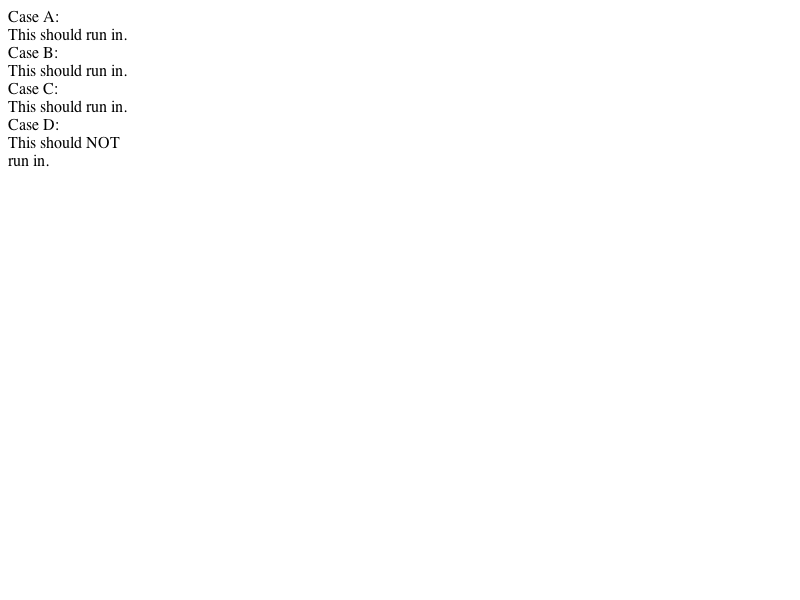
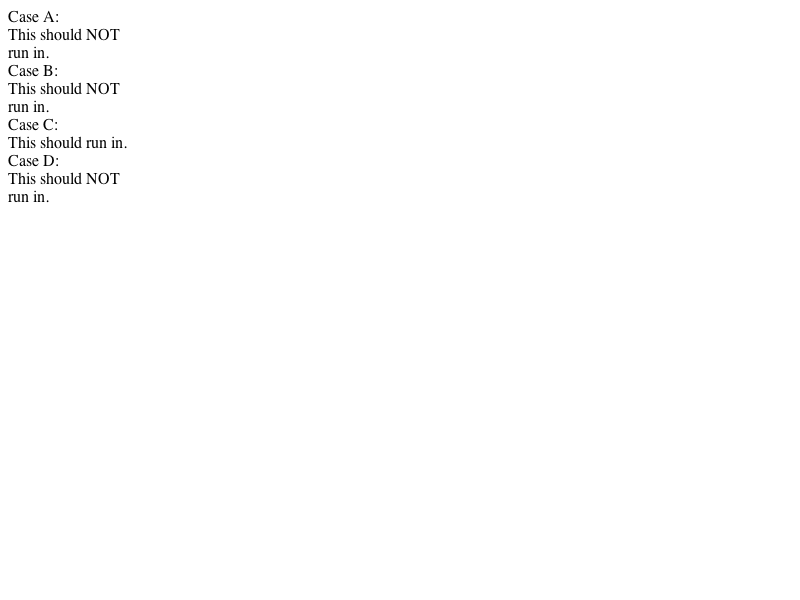
WebCore:
2009-07-15  David Hyatt  <hyatt@apple.com>

        Reviewed by Adam Roben.

        https://bugs.webkit.org/show_bug.cgi?id=27193
        Don't run in to anonymous blocks.  No other browsers do this, and our implementation of run-in
        is effectively broken as a result.

        No new tests. Changed fast/runin/001.html and fast/runin/generated.html to match new behavior.

        * rendering/RenderBlock.cpp:
        (WebCore::RenderBlock::handleRunInChild):

LayoutTests:

2009-07-15  David Hyatt  <hyatt@apple.com>

        Reviewed by Adam Roben.

        https://bugs.webkit.org/show_bug.cgi?id=27193
        Don't let run-ins run in to anonymous blocks.

        * fast/runin/001.html:
        * fast/runin/generated.html:
        * platform/mac/fast/runin/001-expected.checksum:
        * platform/mac/fast/runin/001-expected.png:
        * platform/mac/fast/runin/001-expected.txt:
        * platform/mac/fast/runin/generated-expected.checksum:
        * platform/mac/fast/runin/generated-expected.png:
        * platform/mac/fast/runin/generated-expected.txt:

Identifier: 37571@main
git-svn-id: https://svn.webkit.org/repository/webkit/trunk@45941 268f45cc-cd09-0410-ab3c-d52691b4dbfc

Changed region(s): [[0.0, 0.03, 0.1562, 0.33]]

diff --git a/LayoutTests/fast/runin/001.html b/LayoutTests/fast/runin/001.html
@@ -16,14 +16,14 @@
 Case A:
 
 <div class="block">
-    <div class="runin">This should </div>
+    <div class="runin">This should NOT</div>
     <div class="inline">run in.</div>
 </div>
 
 Case B:
 
 <div class="block">
-    <div class="runin">This should </div>
+    <div class="runin">This should NOT</div>
     run in.
 </div>
 

diff --git a/LayoutTests/fast/runin/generated.html b/LayoutTests/fast/runin/generated.html
@@ -9,5 +9,5 @@
     Generated content with display: run-in causes a crash</i>.
 </p>
 <div id="target">
-    &lt; this should say &ldquo;PASS&rdquo;
+   <div> &lt; this should say &ldquo;PASS&rdquo;</div>
 </div>

diff --git a/WebCore/rendering/RenderBlock.cpp b/WebCore/rendering/RenderBlock.cpp
@@ -1013,13 +1013,13 @@ bool RenderBlock::handleRunInChild(RenderBox* child)
     if (!child->isRunIn() || !child->childrenInline() && !child->isReplaced())
         return false;
 
-    RenderBlock* blockRunIn = toRenderBlock(child);
     // Get the next non-positioned/non-floating RenderBlock.
+    RenderBlock* blockRunIn = toRenderBlock(child);
     RenderObject* curr = blockRunIn->nextSibling();
     while (curr && curr->isFloatingOrPositioned())
         curr = curr->nextSibling();
 
-    if (!curr || !curr->isRenderBlock() || !curr->childrenInline() || curr->isRunIn())
+    if (!curr || !curr->isRenderBlock() || !curr->childrenInline() || curr->isRunIn() || curr->isAnonymous())
         return false;
 
     RenderBlock* currBlock = toRenderBlock(curr);
